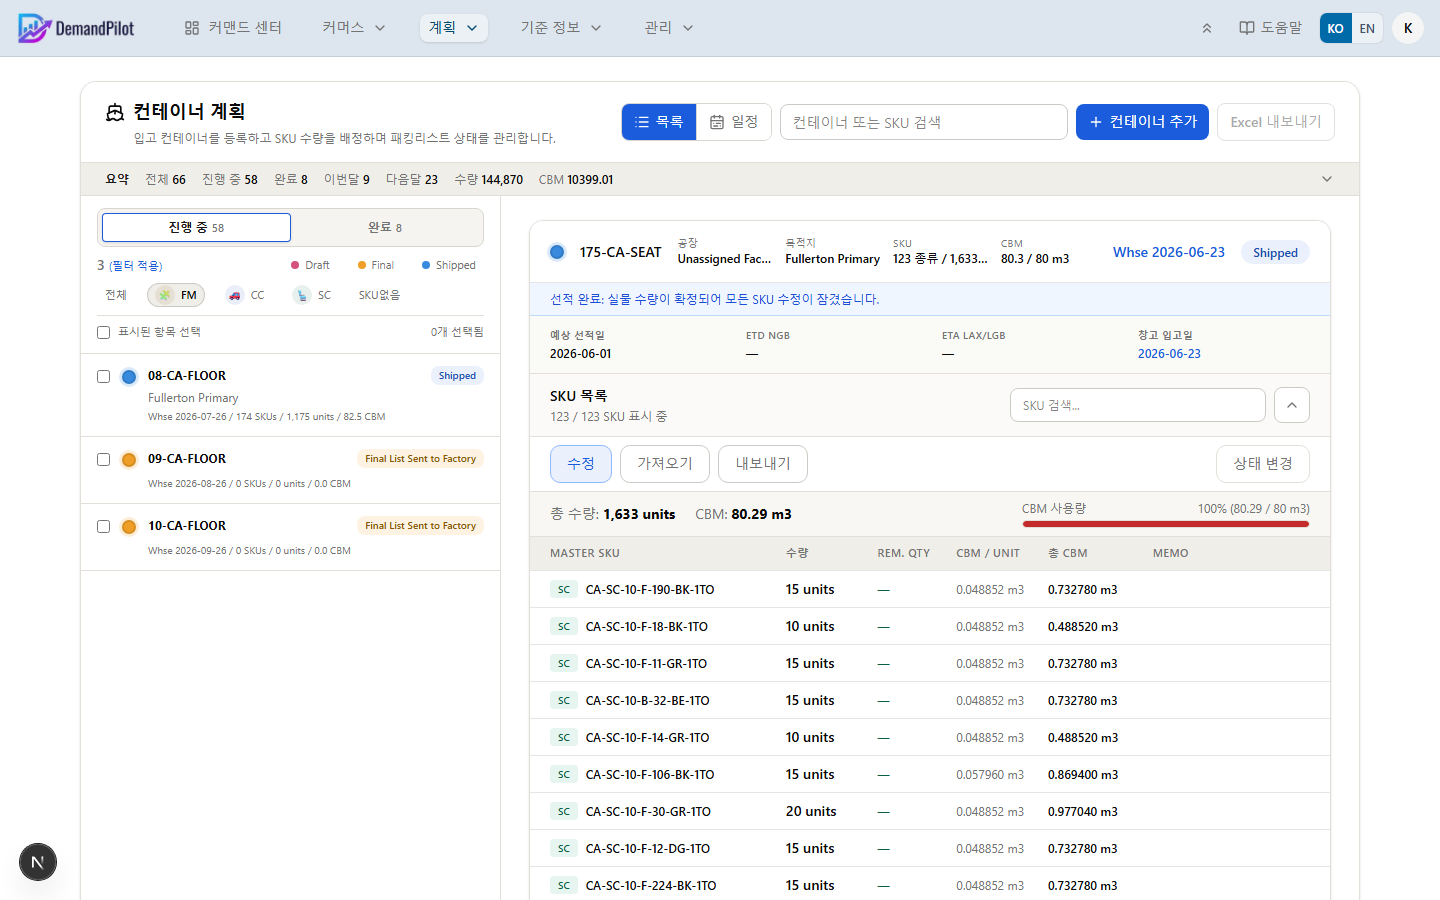
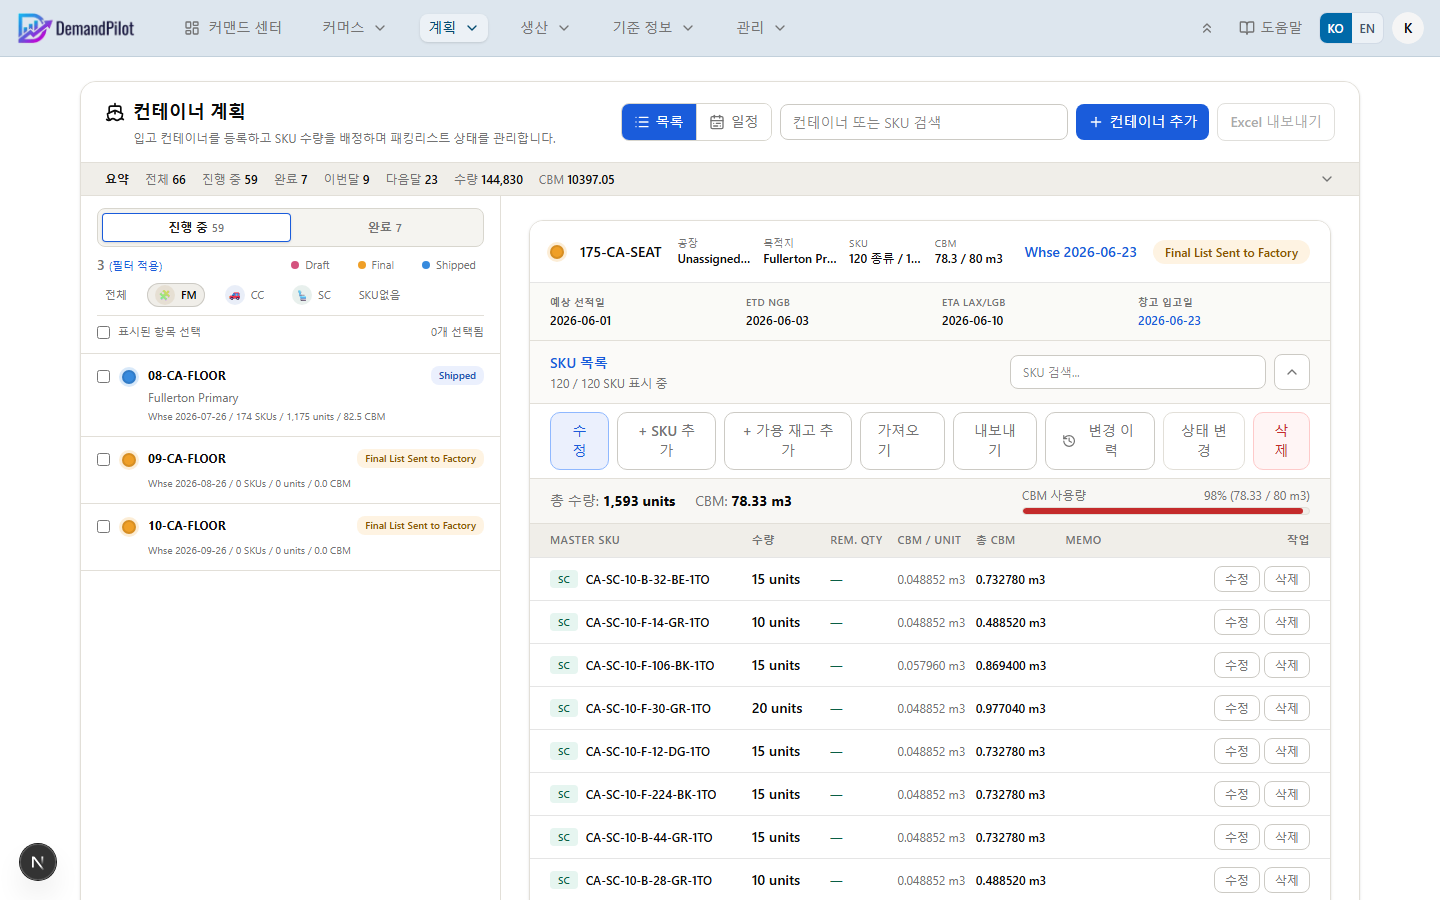
Recapture container planning screenshots with 175-CA-SEAT selected (KO + EN)

diff --git a/docs/manual/retake-container-planning.js b/docs/manual/retake-container-planning.js
@@ -1,0 +1,89 @@
+/**
+ * Container Planning 메인 목록 + 175-CA-SEAT 선택 화면 스크린샷 캡처
+ * 사용법: node docs/manual/retake-container-planning.js <email> <password>
+ *
+ * 캡처 목록:
+ *   public/manual/screenshots/03-container-planning.png       (한글, 175-CA-SEAT 선택)
+ *   public/manual/screenshots/03-container-planning-en.png   (영문, 175-CA-SEAT selected)
+ */
+
+const { chromium } = require("playwright");
+const path = require("path");
+const fs = require("fs");
+
+const BASE = "http://localhost:3000/forecast";
+const OUT = path.join(__dirname, "..", "..", "public", "manual", "screenshots");
+const TARGET = "175-CA-SEAT";
+
+async function setLocale(page, locale) {
+  await page.evaluate((l) => {
+    localStorage.setItem("app.locale", l);
+    localStorage.setItem("demandpilot-locale", l);
+    localStorage.setItem("sku-forecasts-language", l);
+  }, locale);
+}
+
+async function clickLocale(page, locale) {
+  const label = locale === "ko" ? "KO" : "EN";
+  try {
+    await page.getByRole("button", { name: label, exact: true }).click({ timeout: 8000 });
+    await page.waitForTimeout(800);
+  } catch {}
+}
+
+async function loadAndSelect(page, locale) {
+  await setLocale(page, locale);
+  await page.goto(`${BASE}/planning/container-planning`, { waitUntil: "networkidle" });
+  await page.waitForTimeout(2500);
+  await clickLocale(page, locale);
+  await page.waitForTimeout(800);
+
+  // Seat Cover 필터 클릭
+  try {
+    await page.getByRole("button", { name: /Seat Cover/i }).click({ timeout: 6000 });
+    await page.waitForTimeout(1500);
+  } catch {}
+
+  // 175-CA-SEAT 컨테이너가 보일 때까지 대기 후 클릭
+  const target = page.getByText(TARGET, { exact: true }).first();
+  await target.waitFor({ state: "visible", timeout: 15000 });
+  await target.click();
+  await page.waitForTimeout(1500);
+}
+
+(async () => {
+  const [,, email, password] = process.argv;
+  if (!email || !password) {
+    console.error("사용법: node docs/manual/retake-container-planning.js <email> <password>");
+    process.exit(1);
+  }
+
+  if (!fs.existsSync(OUT)) fs.mkdirSync(OUT, { recursive: true });
+
+  const browser = await chromium.launch({ headless: true });
+  const context = await browser.newContext({ viewport: { width: 1440, height: 900 } });
+  const page = await context.newPage();
+
+  console.log("🔐 로그인 중...");
+  await page.goto(`${BASE}/auth/signin`, { waitUntil: "networkidle" });
+  await page.fill('input[name="email"], input[type="email"]', email);
+  await page.fill('input[name="password"], input[type="password"]', password);
+  await page.click('button[type="submit"]');
+  await page.waitForURL((url) => !url.href.includes("/auth/"), { timeout: 15000 });
+  console.log("✅ 로그인 성공");
+
+  // 한글
+  console.log(`\n📸 한글 — ${TARGET} 선택 화면...`);
+  await loadAndSelect(page, "ko");
+  await page.screenshot({ path: path.join(OUT, "03-container-planning.png") });
+  console.log("   → public/manual/screenshots/03-container-planning.png");
+
+  // 영문
+  console.log(`\n📸 영문 — ${TARGET} selected...`);
+  await loadAndSelect(page, "en");
+  await page.screenshot({ path: path.join(OUT, "03-container-planning-en.png") });
+  console.log("   → public/manual/screenshots/03-container-planning-en.png");
+
+  await browser.close();
+  console.log("\n✅ 완료");
+})();